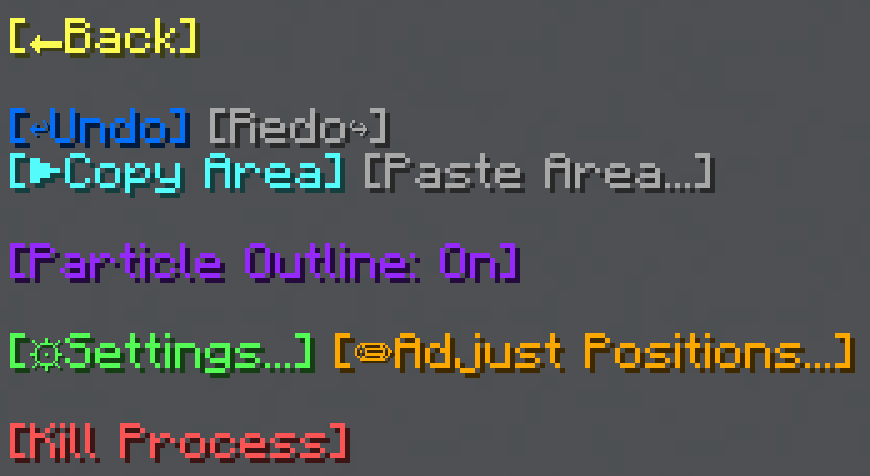
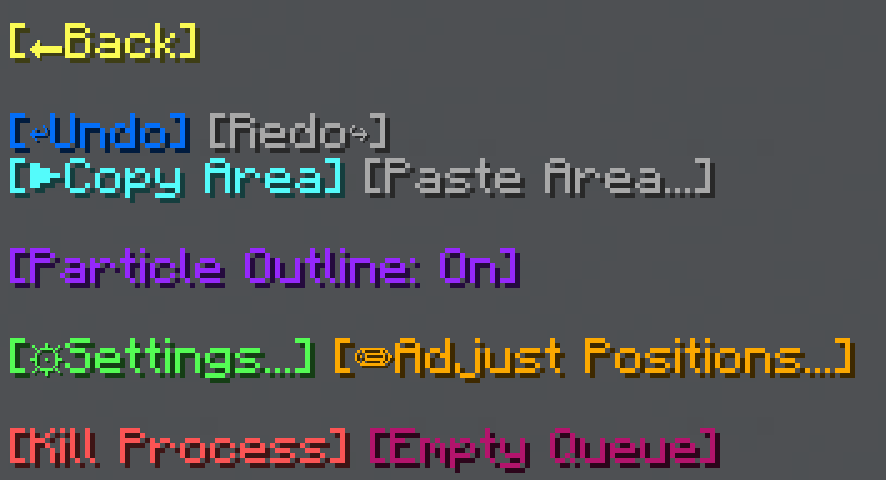
Forgotten feature

diff --git a/docs/general-tool/options.md b/docs/general-tool/options.md
@@ -70,3 +70,9 @@ Using these buttons moves the positions selected with the <MCFont color="yellow"
 ## Kill Process
 
 The <MCFont color="red">[Kill Process]</MCFont> button kills the currently running process, if there is one. Main page: [Processes](../technical/processes).
+
+## Empty Queue
+
+The <MCFont color="#b5146d">[Empty Queue]</MCFont> buttons empties the current [process](../technical/processes) queue. Only use this if something is stuck or went wrong somehow. This does not kill the current process.
+
+To avoid bugginess, it might be a good idea to use the <MCFont color="red">[Kill Process]</MCFont> button after using <MCFont color="#b5146d">[Empty Queue]</MCFont>. 

diff --git a/docs/shape-generation-tool/options.md b/docs/shape-generation-tool/options.md
@@ -33,3 +33,9 @@ Main page: [Settings](../configuration).
 ## Kill Process
 
 The <MCFont color="red">[Kill Process]</MCFont> button kills the currently running process, if there is one. Main page: [Processes](../technical/processes).
+
+## Empty Queue
+
+The <MCFont color="#b5146d">[Empty Queue]</MCFont> buttons empties the current [process](../technical/processes) queue. Only use this if something is stuck or went wrong somehow. This does not kill the current process.
+
+To avoid bugginess, it might be a good idea to use the <MCFont color="red">[Kill Process]</MCFont> button after using <MCFont color="#b5146d">[Empty Queue]</MCFont>. 
